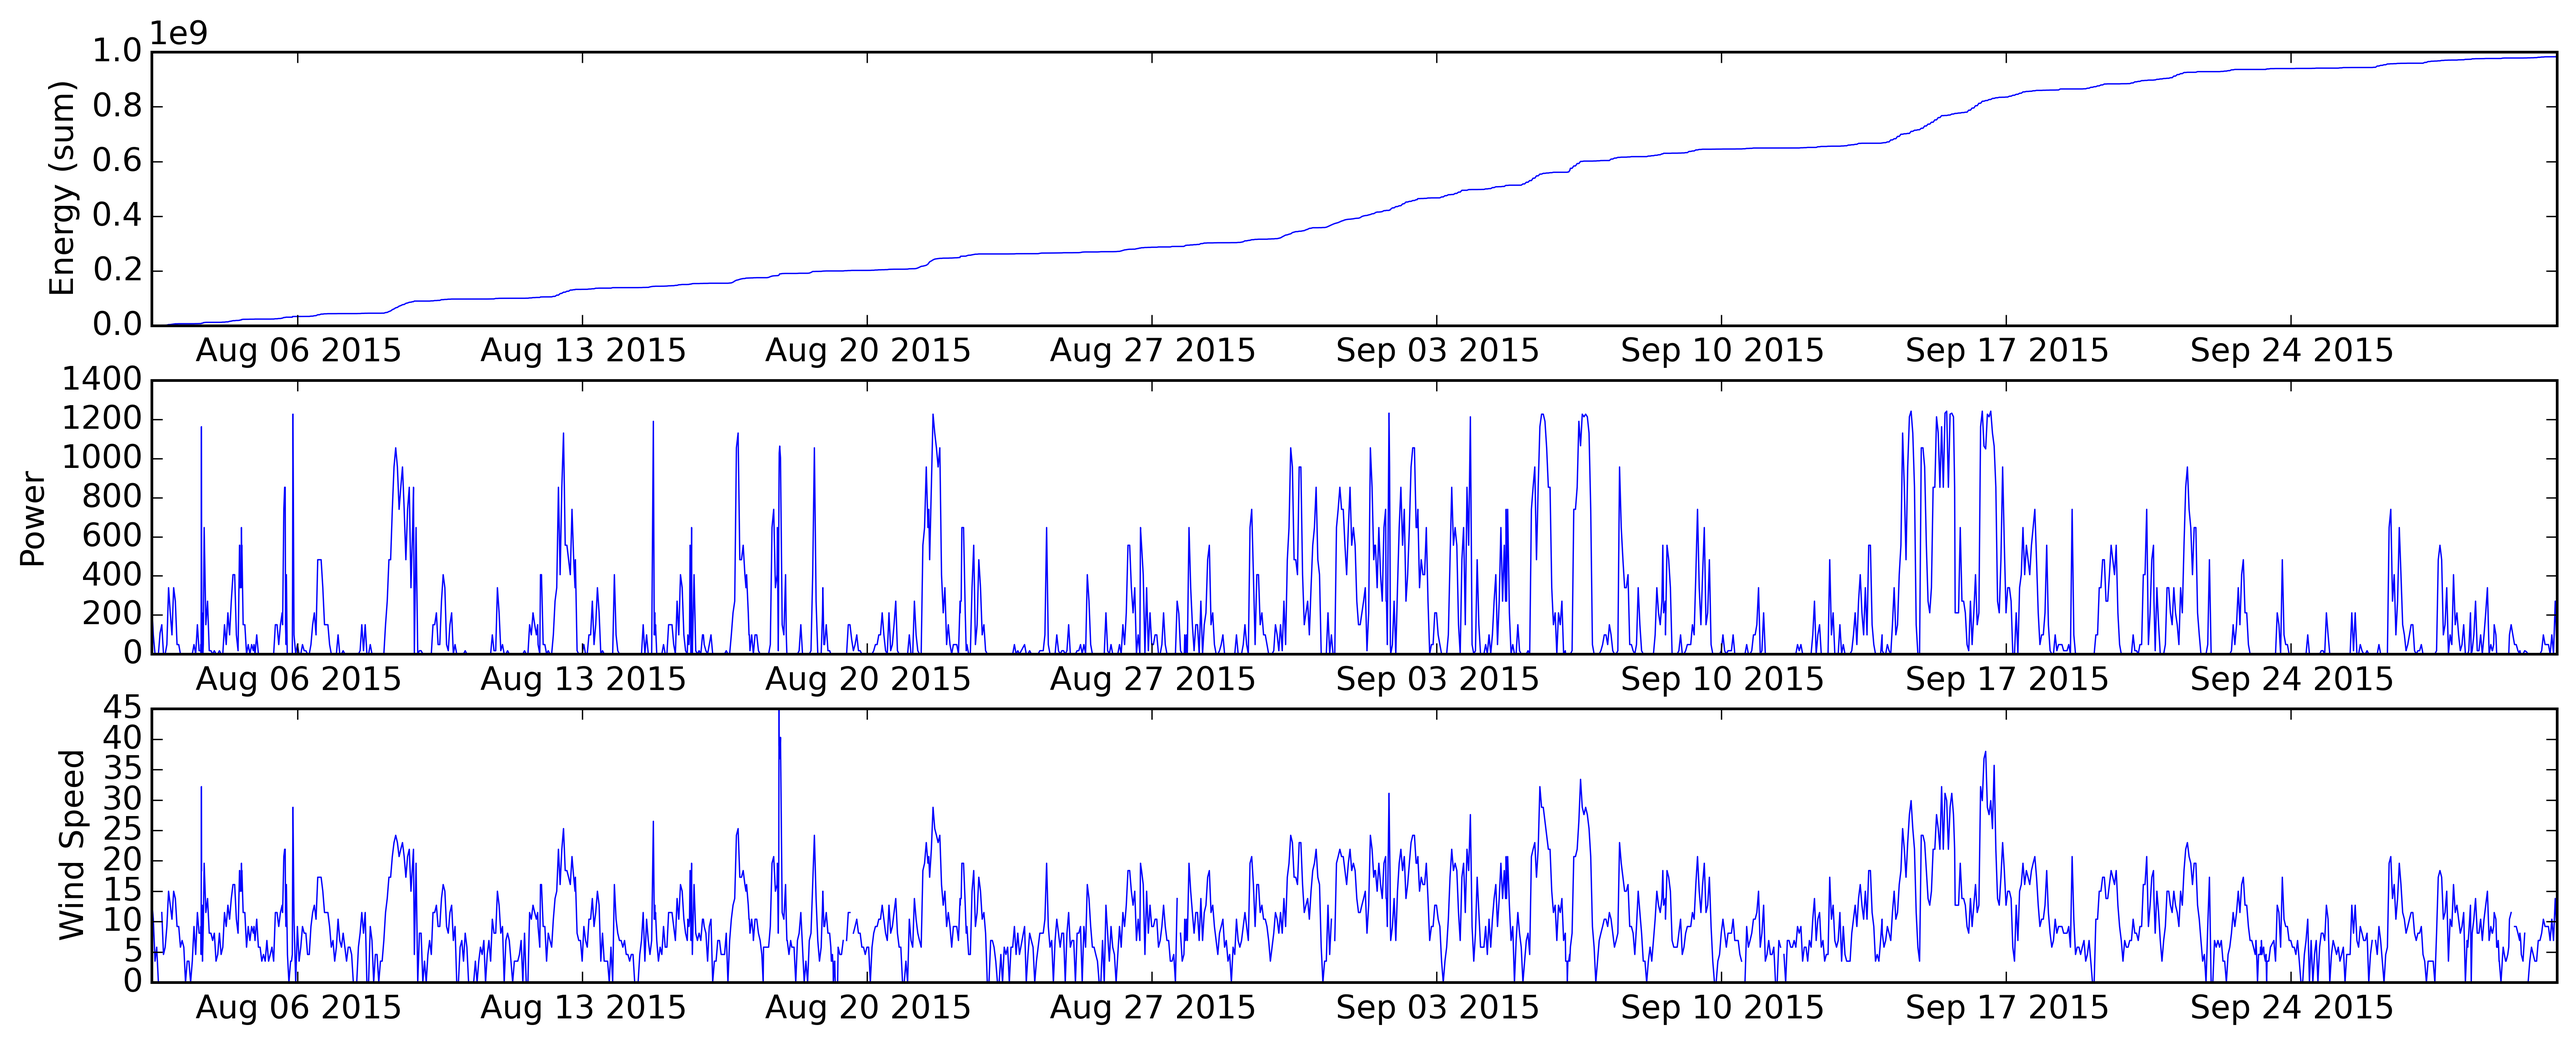
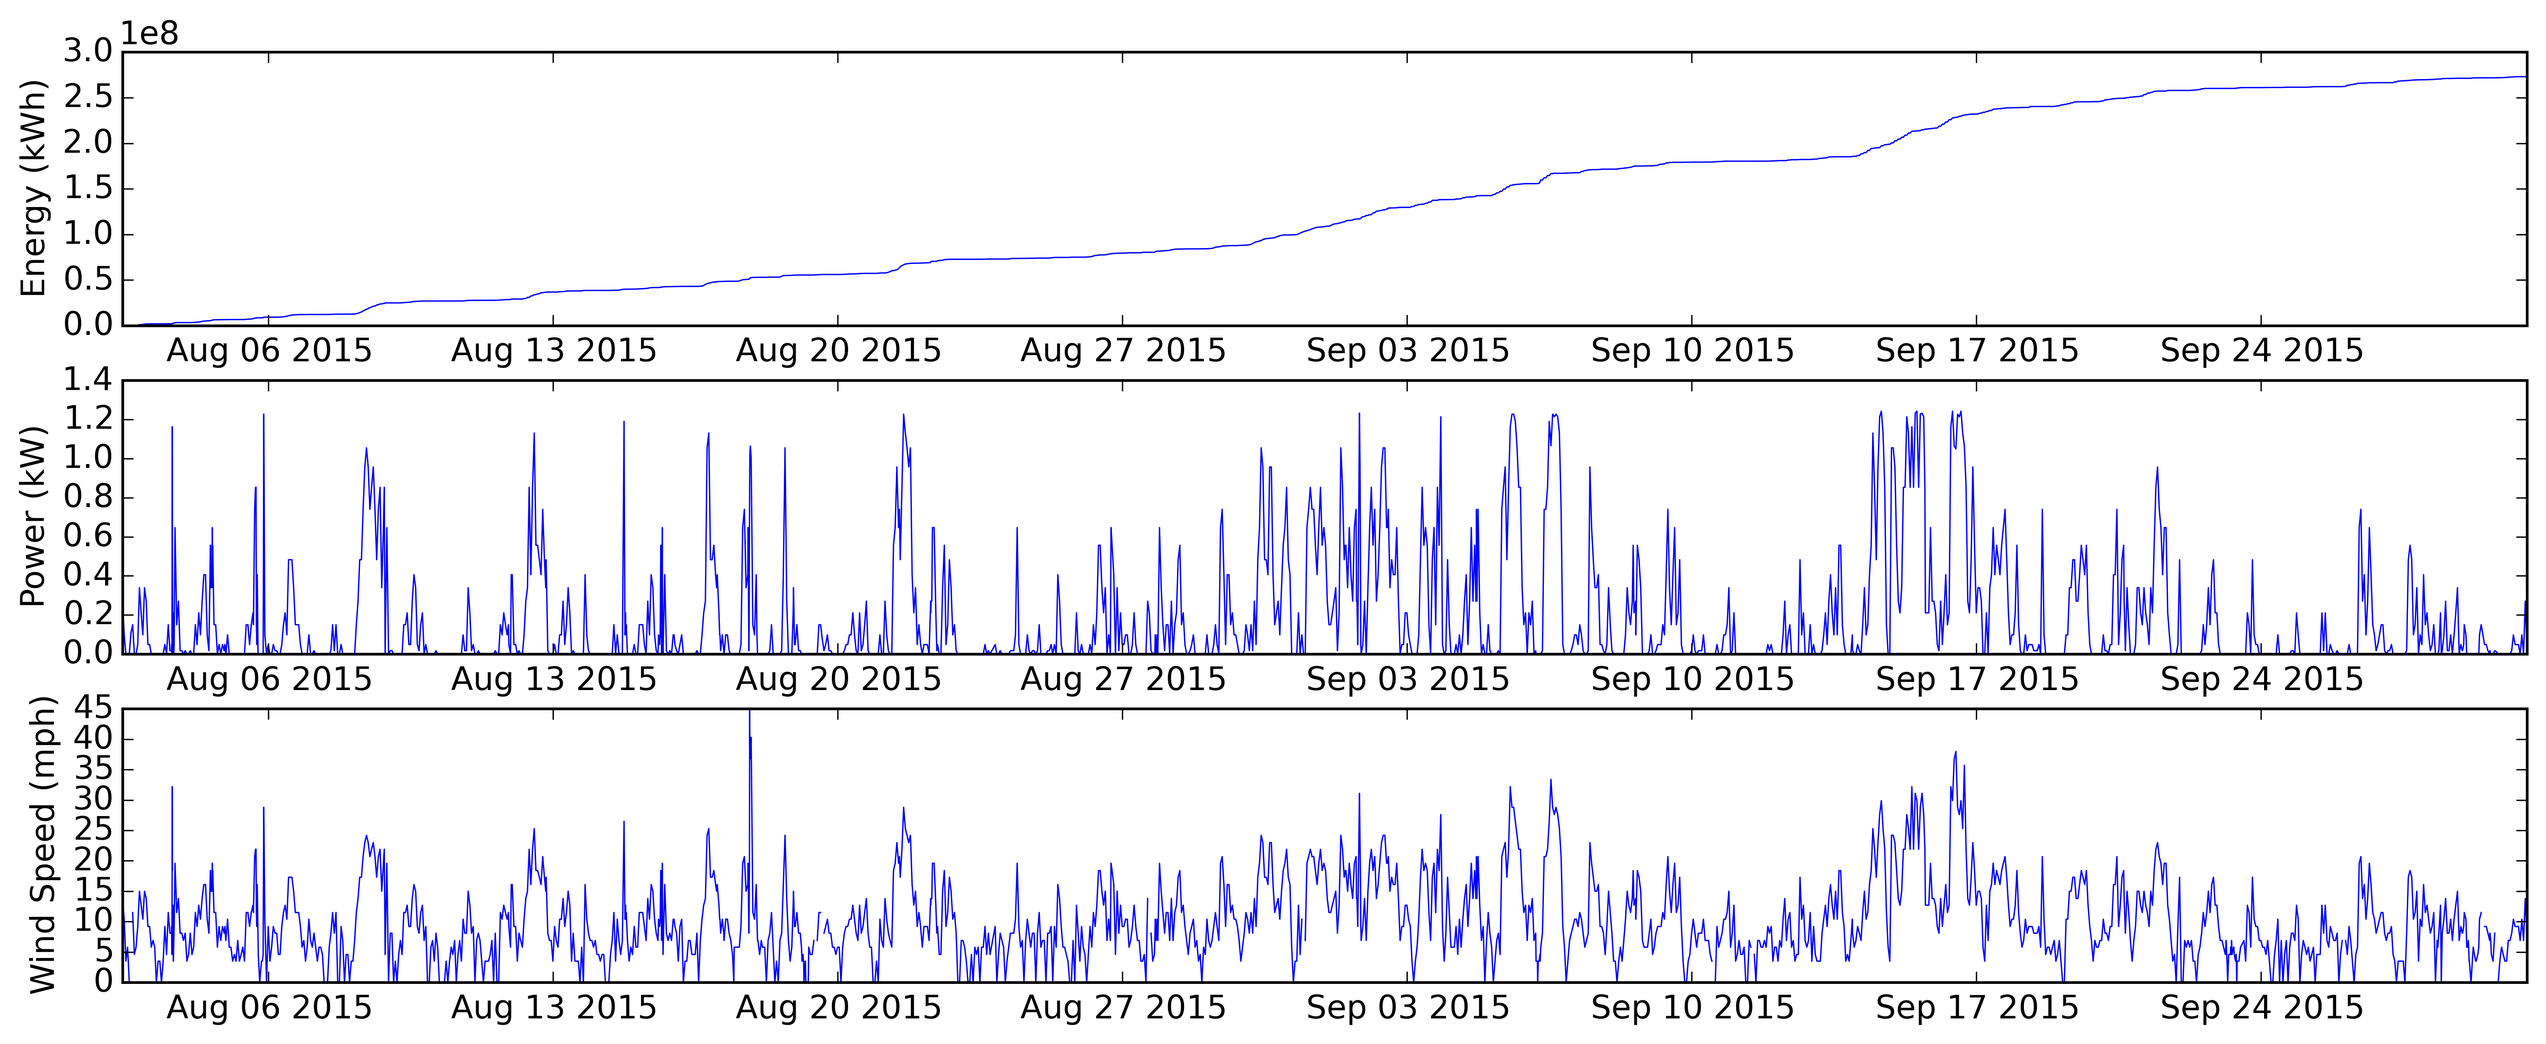
fixed plot magnitudes / labels

diff --git a/project4/plotting.py b/project4/plotting.py
@@ -8,6 +8,7 @@ from scipy import integrate, interpolate
 from matplotlib.dates import YearLocator, MonthLocator, DayLocator, DateFormatter
 import matplotlib.gridspec as gridspec
 from operator import itemgetter
+import scipy.stats
 import datetime
 
 from methods import parse_data_file, interpolate_wind_power_table
@@ -212,7 +213,7 @@ ax.set_xlabel('Date')
 #ax.set_xlim([0, xlim])
 ax2 = ax.twinx()
 #ax2.set_xlim([0, xlim])
-ax2.plot(dates[:-13], map(lambda x: x/3600, energy[:-12]), 'r')
+ax2.plot(dates[:-13], map(lambda x: x/3600000, energy[:-12]), 'r')
 ax2.set_ylabel('Energy (kWh)')
 ax.fmt_xdata = DateFormatter('%Y-%m-%d')
 fig.autofmt_xdate()
@@ -227,15 +228,21 @@ print('data simps approximation:   {}'.format(second))
 cost_per_kilowatthour = 0.121829
 dates = dates[:-13]
 energy = [x/3600 for x in energy[:-12]]
-money = [cost_per_kilowatthour*x-4500 for x in energy]
+money = [cost_per_kilowatthour*x/1000-4500 for x in energy]
 
 fig = plt.figure()
 ax = fig.add_subplot(111)
+
+
 ax.plot(dates, money)
-ax.plot([min(dates), max(dates)], [0, 0])
 ax.set_ylabel('Amount earned ($)')
 ax.fmt_xdata = DateFormatter('%Y-%m-%d')
 
-fig.autofmt_xdate()
+slope, intercept, r_value, p_value, std_err = scipy.stats.linregress([(t-datetime.datetime(1970,1,1)).total_seconds() for t in dates], money)
+print("slope: {} $/day".format(slope*(3600*24)))
+print("intercept: {}".format(intercept))
+print("r^2: {}".format(r_value**2))
+print("std_err: {}".format(std_err))
 
+fig.autofmt_xdate()
 fig.savefig('/home/samuel/Downloads/money_plot.png')
